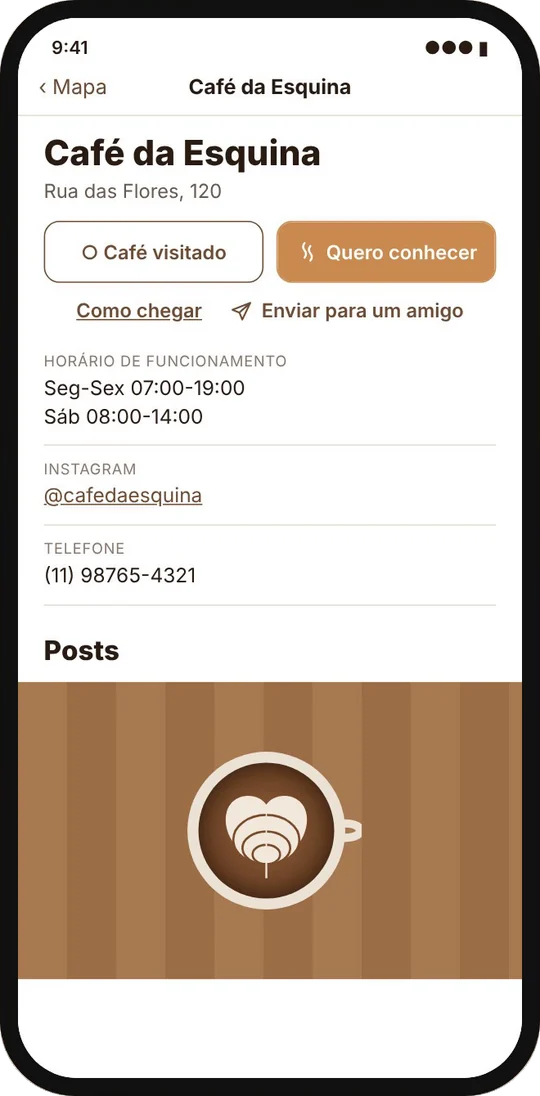
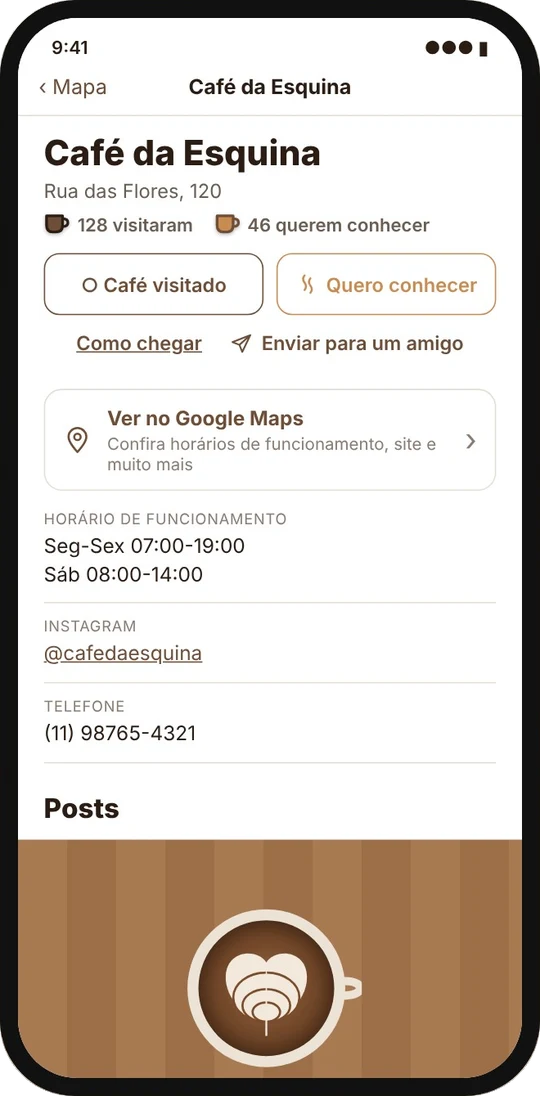
Telas novas do app e texto do mapa
Claude-Session: https://claude.ai/code/session_01T3djedg7HuKoqHoovhUZqj

diff --git a/index.html b/index.html
@@ -64,7 +64,7 @@
     <ul class="blocos">
 <li class="bloco bloco-torra">
 <h3>Ache cafeterias perto de você</h3>
-<p>Cada canequinha no mapa é um café. Toque para ver endereço, horário e o que o pessoal compartilhou.</p>
+<p>Cada canequinha no mapa é um café. Toque para ver o endereço, quantas pessoas já foram e o que o pessoal compartilhou.</p>
 <img src="img/mapa.webp" alt="Tela do mapa com as canequinhas dos cafés" width="540" height="1096" loading="lazy" decoding="async">
 </li>
 <li class="bloco bloco-caramelo">

diff --git a/en/index.html b/en/index.html
@@ -64,7 +64,7 @@
     <ul class="blocos">
 <li class="bloco bloco-torra">
 <h3>Find cafés near you</h3>
-<p>Every little mug on the map is a café. Tap it to see the address, hours and what people shared.</p>
+<p>Every little mug on the map is a café. Tap it to see the address, how many people have been and what they shared.</p>
 <img src="../img/mapa.webp" alt="Map screen with café mugs" width="540" height="1096" loading="lazy" decoding="async">
 </li>
 <li class="bloco bloco-caramelo">
